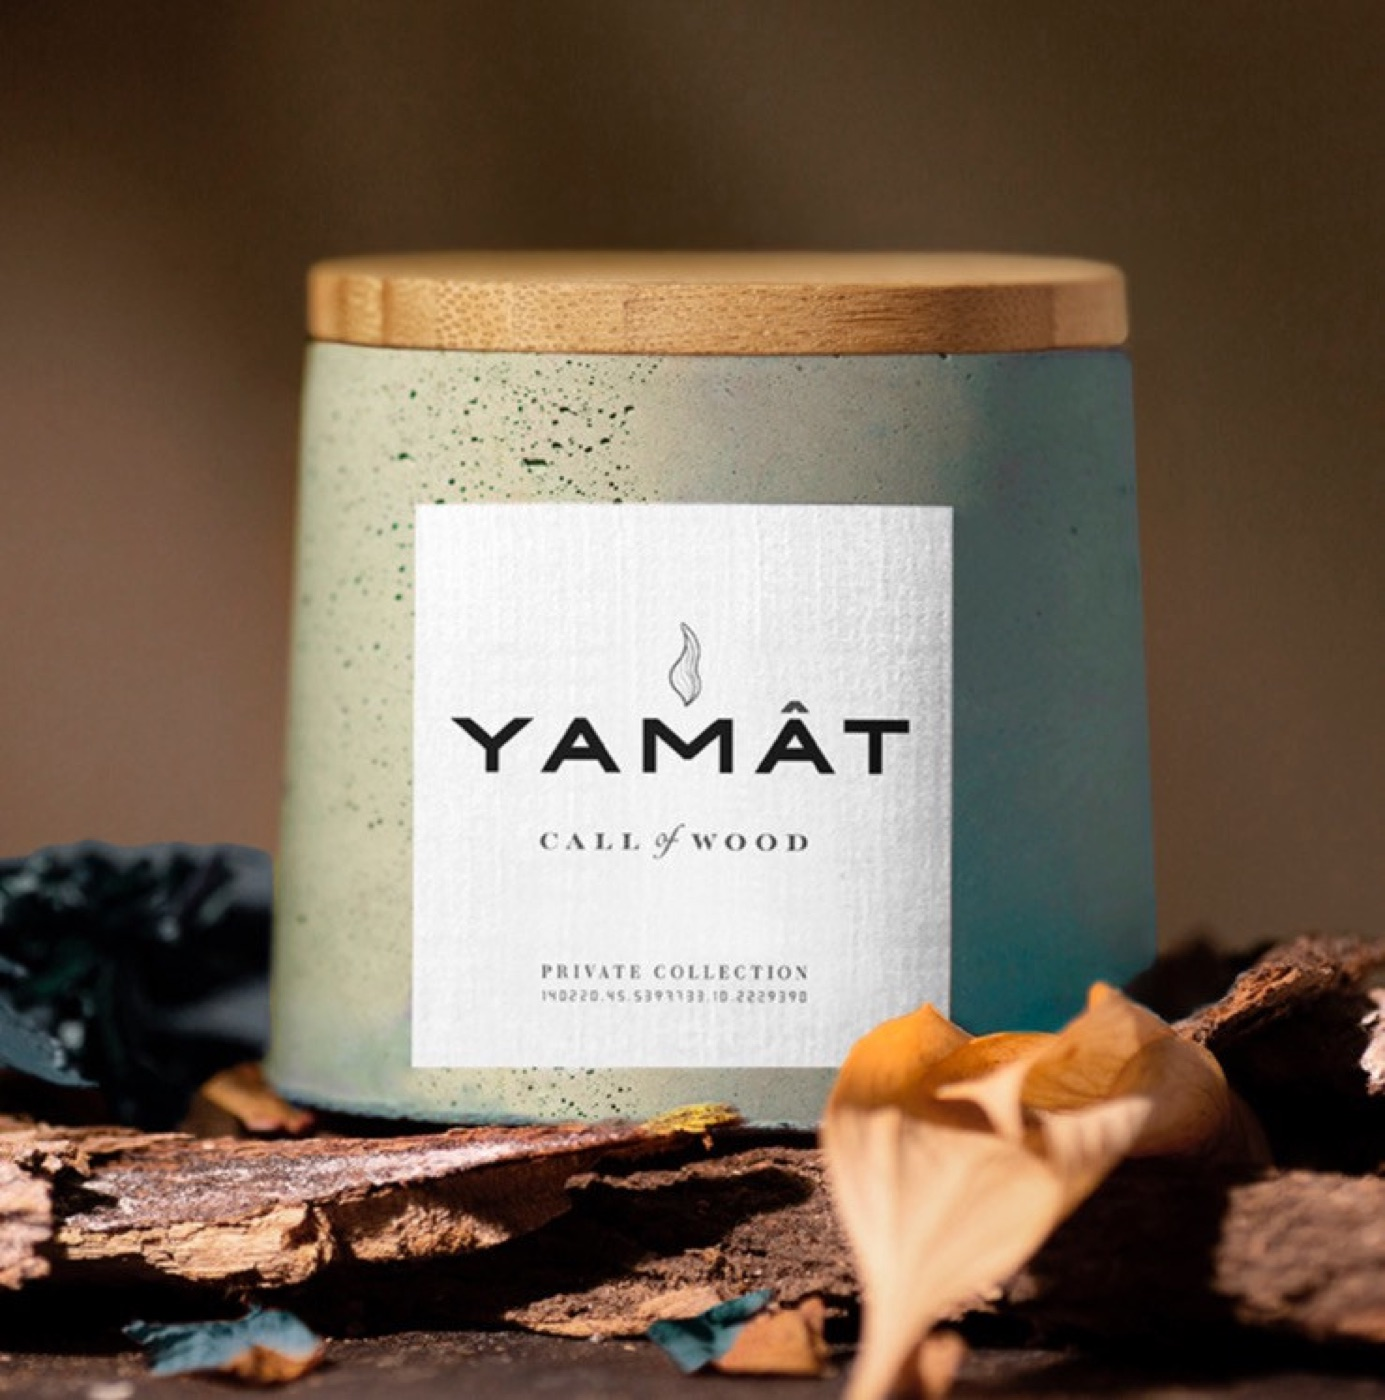
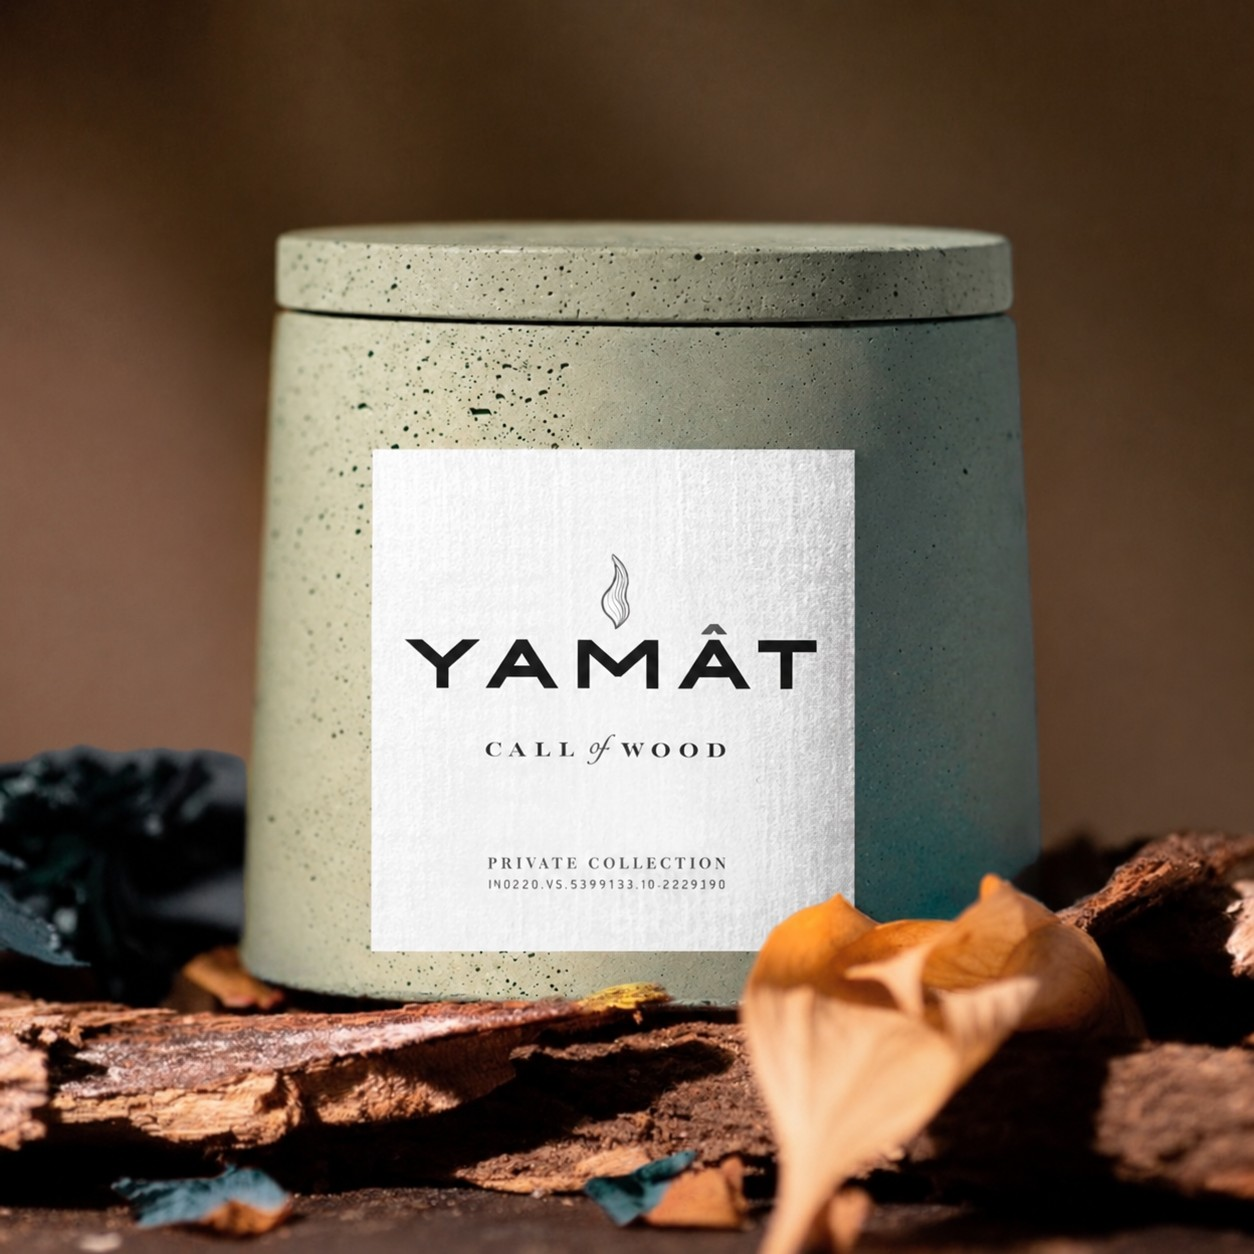
Sito Yamat definitivo 2026-09-29 23:22

diff --git a/index.html b/index.html
@@ -255,7 +255,7 @@ const reduce=matchMedia('(prefers-reduced-motion: reduce)').matches;
 const touch=matchMedia('(hover: none)').matches;
 const N=5, GAP=26, W=92, H=W*941/1672;
 const FOC=[[.21,.47],[.72,.49],[.2,.5],[.68,.5],[.5,.52]];
-const VID={0:{file:'v1.mp4',n:121,fx:[.22,.22,.22,.21,.2]},1:{file:'v2.mp4',n:121,fx:[.77,.76,.74,.71,.69]}};   // fx = posizione del prodotto nella clip, a 0-25-50-75-100%   // tappe che hanno già la clip del volo
+const VID={0:{file:'v1.mp4',n:121,fx:[.22,.22,.22,.21,.2]}};   // 1: v2.mp4 tolto il 29/9: aveva la .01 col coperchio di legno, si rifà col coperchio di cemento   // fx = posizione del prodotto nella clip, a 0-25-50-75-100%   // tappe che hanno già la clip del volo
 const SIDE=[1,-1,1,-1,-1];
 
 /* ---------- collezione: nomi, prezzi e foto dal negozio ---------- */
